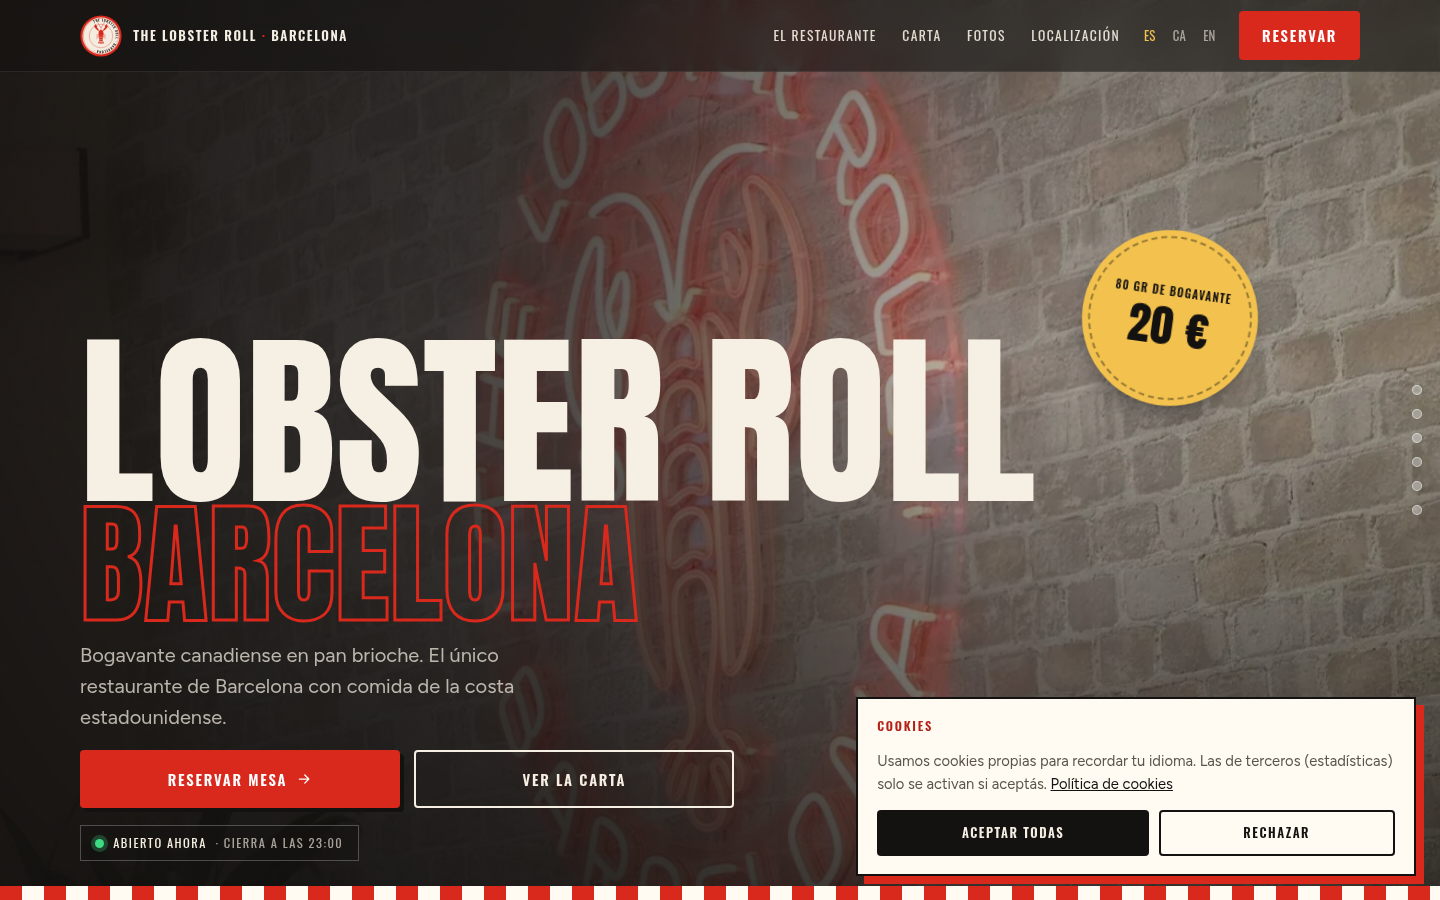
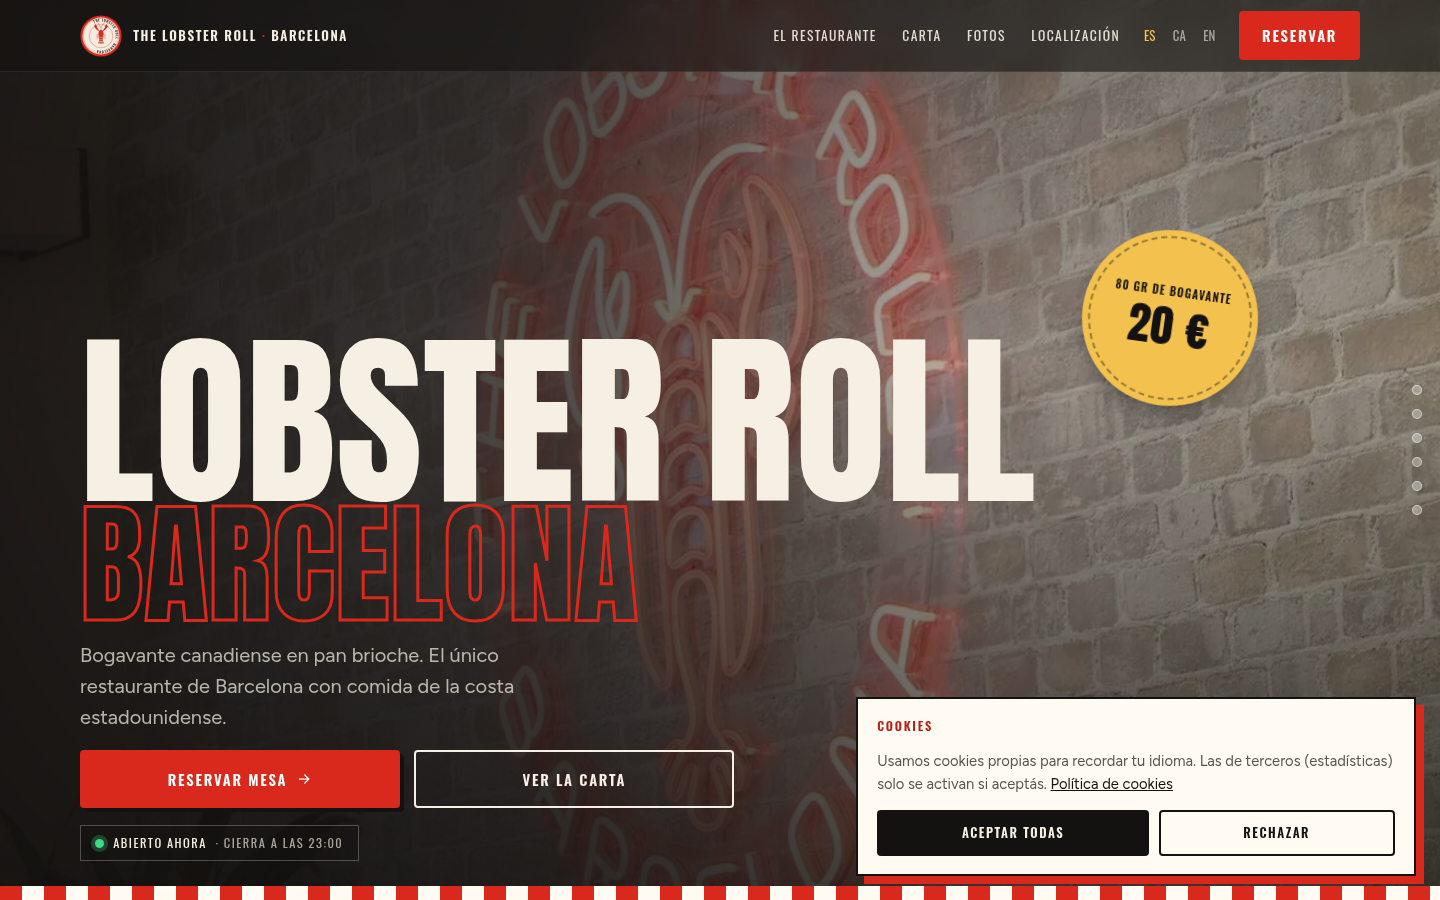
Lobster Roll: carta digital aparte (carta.html) y arreglo del titular del hero
- carta.html + css/carta.css + js/carta.js: página independiente para QR
  en mesa, con ES/CA/EN, pestañas Rolls/Combos, estado abierto/cerrado,
  reserva y teléfono; lee los mismos JSON que la web
- El titular del hero apilaba las letras: las reglas de .hero__titulo
  ahora apuntan a .linea y .l3, no a cualquier span

Claude-Session: https://claude.ai/code/session_01DngJyVj753fRcsSEJxT4AY

diff --git a/lobster-roll-web/js/carta.js b/lobster-roll-web/js/carta.js
@@ -1,0 +1,92 @@
+/* Carta digital (carta.html): carga data/carta.json, data/restaurante.json y data/i18n/*.json.
+   Independiente de main.js para poder vender la carta sola. */
+(() => {
+  'use strict';
+  const IDIOMAS = ['es', 'ca', 'en'];
+  const $ = (s, c = document) => c.querySelector(s);
+  const $$ = (s, c = document) => Array.from(c.querySelectorAll(s));
+  const estado = { lang: 'es', t: null, carta: null, rest: null };
+  const get = (o, r) => r.split('.').reduce((a, k) => (a == null ? undefined : a[k]), o);
+  const fmt = (s, v) => s.replace(/\{(\w+)\}/g, (_, k) => v[k] ?? '');
+  const txt = (o) => (typeof o === 'string' ? o : (o?.[estado.lang] ?? o?.es ?? ''));
+  const precio = (n) => new Intl.NumberFormat(get(estado.t, 'precio.locale') || 'es-ES', { style: 'currency', currency: estado.carta?.moneda || 'EUR', minimumFractionDigits: Number.isInteger(n) ? 0 : 2, maximumFractionDigits: 2 }).format(n);
+  const cargar = async (r) => { const x = await fetch(r, { cache: 'no-cache' }); if (!x.ok) throw new Error(r); return x.json(); };
+
+  function detectarIdioma() {
+    const q = new URLSearchParams(location.search).get('lang'); if (IDIOMAS.includes(q)) return q;
+    try { const g = localStorage.getItem('lr-lang'); if (IDIOMAS.includes(g)) return g; } catch (e) { /* sin storage */ }
+    return 'es';
+  }
+  function aplicarI18n() {
+    document.documentElement.lang = estado.lang;
+    $$('[data-i18n]').forEach((el) => { const v = get(estado.t, el.dataset.i18n); if (typeof v === 'string') el.textContent = v; });
+    $$('[data-i18n-attr]').forEach((el) => el.dataset.i18nAttr.split(';').forEach((p) => { const [a, k] = p.split(':').map((s) => s.trim()); const v = get(estado.t, k); if (typeof v === 'string') el.setAttribute(a, v); }));
+    $$('.idiomas button').forEach((b) => b.setAttribute('aria-pressed', String(b.dataset.lang === estado.lang)));
+  }
+  function aplicarDatos() {
+    const r = estado.rest;
+    $$('[data-dato]').forEach((el) => { const v = get(r, el.dataset.dato); if (v != null) el.textContent = v; });
+    $$('[data-reservas]').forEach((a) => { a.href = r.reservas; });
+    $$('[data-tel]').forEach((a) => { a.href = `tel:${r.telefono_tel}`; });
+  }
+  function pintarCarta() {
+    const destacado = get(estado.t, 'carta.especialidad') || '';
+    estado.carta.categorias.forEach((cat) => {
+      const ul = $(`.items[data-categoria="${cat.id}"]`); if (!ul) return;
+      const rolls = estado.carta.categorias.find((x) => x.id === 'rolls')?.items || [];
+      ul.innerHTML = cat.items.map((it) => {
+        const desc = txt(it.descripcion) || (it.roll ? (rolls.find((r) => r.id === it.roll)?.nombre || '') : '');
+        return `<li class="item${it.destacado ? ' item--destacado' : ''}">${it.destacado ? `<span class="item__tag">${destacado}</span>` : ''}<span class="item__nombre">${it.nombre}</span><span class="item__precio num">${precio(it.precio)}</span>${desc ? `<span class="item__desc">${desc}</span>` : ''}</li>`;
+      }).join('');
+    });
+  }
+  function ahoraEn(zona) {
+    const p = new Intl.DateTimeFormat('en-GB', { timeZone: zona, weekday: 'short', hour: '2-digit', minute: '2-digit', hour12: false }).formatToParts(new Date());
+    const o = Object.fromEntries(p.filter((x) => x.type !== 'literal').map((x) => [x.type, x.value]));
+    return { dia: { Sun: 0, Mon: 1, Tue: 2, Wed: 3, Thu: 4, Fri: 5, Sat: 6 }[o.weekday], min: (+o.hour % 24) * 60 + (+o.minute) };
+  }
+  const aMin = (h) => { const [a, b] = h.split(':').map(Number); return a * 60 + b; };
+  function pintarEstado() {
+    const el = $('#estado'); const h = estado.rest.horario; const t = estado.t.estado; const { dia, min } = ahoraEn(h.zona);
+    const hoy = h.dias[String(dia)] || []; let abierto = false; let detalle = '';
+    for (const [a, b] of hoy) if (min >= aMin(a) && min < aMin(b)) { abierto = true; detalle = fmt(t.cierra, { hora: b }); break; }
+    if (!abierto) {
+      const prox = hoy.find(([a]) => min < aMin(a));
+      if (prox) detalle = fmt(t.abre_hoy, { hora: prox[0] });
+      else for (let i = 1; i <= 7; i++) { const d = (dia + i) % 7; const tr = h.dias[String(d)] || []; if (tr.length) { detalle = fmt(t.abre_dia, { dia: get(estado.t, 'localizacion.dias')[d], hora: tr[0][0] }); break; } }
+    }
+    el.classList.toggle('is-abierto', abierto); el.classList.toggle('is-cerrado', !abierto);
+    $('.estado__txt', el).textContent = abierto ? t.abierto : t.cerrado; $('.estado__detalle', el).textContent = detalle ? ` · ${detalle}` : '';
+    // resumen de horario en el pie: agrupa días iguales
+    const dc = get(estado.t, 'localizacion.dias_corto'); const cerrado = get(estado.t, 'localizacion.cerrado');
+    const orden = [1, 2, 3, 4, 5, 6, 0]; const partes = []; let ini = 0;
+    const clave = (d) => JSON.stringify(h.dias[String(d)] || []);
+    for (let i = 1; i <= orden.length; i++) {
+      if (i === orden.length || clave(orden[i]) !== clave(orden[ini])) {
+        const tr = h.dias[String(orden[ini])] || []; const dias = ini === i - 1 ? dc[orden[ini]] : `${dc[orden[ini]]}–${dc[orden[i - 1]]}`;
+        partes.push(`${dias} ${tr.length ? tr.map(([a, b]) => `${a}–${b}`).join(', ') : cerrado.toLowerCase()}`); ini = i;
+      }
+    }
+    $('#cd-horario').textContent = partes.join(' · ');
+  }
+  function initTabs() {
+    const tabs = $$('[role="tab"]');
+    const activar = (tab, foco = true) => { tabs.forEach((t) => { const on = t === tab; t.setAttribute('aria-selected', String(on)); t.tabIndex = on ? 0 : -1; const p = document.getElementById(t.getAttribute('aria-controls')); if (p) p.hidden = !on; }); if (foco) tab.focus(); };
+    tabs.forEach((tab, i) => { tab.addEventListener('click', () => activar(tab, false)); tab.addEventListener('keydown', (e) => { const m = { ArrowRight: 1, ArrowLeft: -1, Home: -i, End: tabs.length - 1 - i }; if (e.key in m) { e.preventDefault(); activar(tabs[(i + m[e.key] + tabs.length) % tabs.length]); } }); });
+    if (location.hash === '#combos') activar(tabs[1], false);
+  }
+  async function cambiarIdioma(lang) {
+    if (!IDIOMAS.includes(lang)) return; estado.lang = lang; estado.t = await cargar(`data/i18n/${lang}.json`);
+    try { localStorage.setItem('lr-lang', lang); } catch (e) { /* sin storage */ }
+    const u = new URL(location.href); u.searchParams.set('lang', lang); history.replaceState(null, '', u);
+    aplicarI18n(); pintarCarta(); pintarEstado();
+  }
+  async function init() {
+    estado.lang = detectarIdioma();
+    const [t, carta, rest] = await Promise.all([cargar(`data/i18n/${estado.lang}.json`), cargar('data/carta.json'), cargar('data/restaurante.json')]);
+    Object.assign(estado, { t, carta, rest });
+    aplicarDatos(); aplicarI18n(); pintarCarta(); pintarEstado(); setInterval(pintarEstado, 60000); initTabs();
+    $$('.idiomas button').forEach((b) => b.addEventListener('click', () => cambiarIdioma(b.dataset.lang)));
+  }
+  if (document.readyState === 'loading') document.addEventListener('DOMContentLoaded', init); else init();
+})();

diff --git a/lobster-roll-web/carta.html b/lobster-roll-web/carta.html
@@ -1,0 +1,95 @@
+<!doctype html>
+<html lang="es">
+<head>
+  <meta charset="utf-8">
+  <meta name="viewport" content="width=device-width, initial-scale=1">
+  <title data-i18n="carta_digital.titulo">Carta · The Lobster Roll Barcelona</title>
+  <meta name="description" data-i18n-attr="content:carta_digital.descripcion" content="Carta de The Lobster Roll Barcelona: lobster rolls de bogavante canadiense, crab rolls, combos y más. Carrer de Muntaner 22.">
+  <meta name="theme-color" content="#d9281c">
+  <meta name="robots" content="index, follow">
+  <link rel="icon" href="assets/img/logo.svg" type="image/svg+xml">
+  <link rel="preload" href="assets/fonts/anton-normal-400-latin.woff2" as="font" type="font/woff2" crossorigin>
+  <link rel="preload" href="assets/fonts/gloock-normal-400-latin.woff2" as="font" type="font/woff2" crossorigin>
+  <link rel="stylesheet" href="css/fonts.css">
+  <link rel="stylesheet" href="css/styles.css">
+  <link rel="stylesheet" href="css/carta.css">
+</head>
+<body class="cd">
+<a class="saltar" href="#cd-carta" data-i18n="nav.saltar">Saltar al contenido</a>
+
+<svg width="0" height="0" style="position:absolute" aria-hidden="true">
+  <defs>
+    <symbol id="i-logo" viewBox="0 0 200 200">
+      <path id="arco" d="M100,100 m-70,0 a70,70 0 1,1 140,0 a70,70 0 1,1 -140,0" fill="none"/>
+      <circle cx="100" cy="100" r="98" fill="#d9281c"/><circle cx="100" cy="100" r="88" fill="#f3ecdf"/>
+      <circle cx="100" cy="100" r="84" fill="none" stroke="#d9281c" stroke-width="1.5"/><circle cx="100" cy="100" r="56" fill="none" stroke="#d9281c" stroke-width="1.5"/>
+      <text font-family="Oswald, 'Arial Narrow', Arial, sans-serif" font-weight="600" font-size="15.5" letter-spacing="2.6" fill="#141210"><textPath href="#arco" startOffset="50%" text-anchor="middle">THE LOBSTER ROLL · BARCELONA ·</textPath></text>
+      <g fill="#d9281c" stroke="#d9281c" stroke-linecap="round" stroke-linejoin="round">
+        <path d="M100,62 C96,54 90,44 84,36" fill="none" stroke-width="2"/><path d="M100,62 C104,54 110,44 116,36" fill="none" stroke-width="2"/>
+        <ellipse cx="100" cy="88" rx="11" ry="18"/>
+        <path d="M89,100 h22 l-1,8 h-20z M90,108 h20 l-1,8 h-18z M91,116 h18 l-1,8 h-16z" stroke="#f3ecdf" stroke-width="1"/>
+        <path d="M92,124 l-6,10 h8z M100,124 l-4,12 h8z M108,124 l6,10 h-8z"/>
+        <path d="M90,76 C82,70 74,66 70,58 C66,52 70,46 76,48 C80,50 82,56 80,60 C84,62 88,68 90,76z"/>
+        <path d="M110,76 C118,70 126,66 130,58 C134,52 130,46 124,48 C120,50 118,56 120,60 C116,62 112,68 110,76z"/>
+        <path d="M76,48 l-6,-6 M124,48 l6,-6" fill="none" stroke-width="2.5"/>
+        <path d="M89,92 l-10,4 M89,98 l-10,6 M89,104 l-9,8 M111,92 l10,4 M111,98 l10,6 M111,104 l9,8" fill="none" stroke-width="2"/>
+        <circle cx="95" cy="72" r="1.6" fill="#f3ecdf" stroke="none"/><circle cx="105" cy="72" r="1.6" fill="#f3ecdf" stroke="none"/>
+      </g>
+    </symbol>
+    <symbol id="i-flecha" viewBox="0 0 24 24"><path d="M5 12h14M13 6l6 6-6 6" fill="none" stroke="currentColor" stroke-width="2" stroke-linecap="round" stroke-linejoin="round"/></symbol>
+    <symbol id="i-tel" viewBox="0 0 24 24"><path d="M5 4h4l2 5-2.5 1.5a11 11 0 0 0 5 5L15 13l5 2v4a2 2 0 0 1-2 2A16 16 0 0 1 3 6a2 2 0 0 1 2-2z" fill="none" stroke="currentColor" stroke-width="2" stroke-linejoin="round"/></symbol>
+  </defs>
+</svg>
+
+<header class="cd__cab">
+  <div class="cd__cab-int">
+    <svg class="cd__logo" aria-hidden="true"><use href="#i-logo"/></svg>
+    <div class="cd__marca">
+      <span class="cd__nombre" data-dato="nombre">The Lobster Roll</span>
+      <span class="cd__ciudad"><span data-dato="direccion.calle">Carrer de Muntaner, 22</span> · <span data-dato="direccion.ciudad">Barcelona</span></span>
+    </div>
+    <div class="idiomas cd__idiomas" role="group" data-i18n-attr="aria-label:nav.idioma" aria-label="Idioma">
+      <button type="button" data-lang="es" aria-pressed="true" lang="es">ES</button>
+      <button type="button" data-lang="ca" aria-pressed="false" lang="ca">CA</button>
+      <button type="button" data-lang="en" aria-pressed="false" lang="en">EN</button>
+    </div>
+  </div>
+  <div class="rayas rayas--fina" aria-hidden="true"></div>
+</header>
+
+<main class="cd__main" id="cd-carta">
+  <div class="cd__titulo-bloque">
+    <p class="estado" id="estado" aria-live="polite"><span class="estado__punto" aria-hidden="true"></span><span class="estado__txt">…</span><span class="estado__detalle"></span></p>
+    <h1 class="cd__titulo" data-i18n="carta.titulo">Carta</h1>
+    <p class="cd__sub" data-i18n="carta_digital.sub">Bogavante canadiense en pan brioche. Todo recién hecho.</p>
+  </div>
+
+  <div class="tabs cd__tabs" role="tablist" aria-label="Carta">
+    <button class="tab" role="tab" id="tab-rolls" aria-selected="true" aria-controls="panel-rolls" data-i18n="carta.tab_rolls">Rolls</button>
+    <button class="tab" role="tab" id="tab-combos" aria-selected="false" aria-controls="panel-combos" tabindex="-1" data-i18n="carta.tab_combos">Combos</button>
+  </div>
+  <div class="panel" role="tabpanel" id="panel-rolls" aria-labelledby="tab-rolls" tabindex="0">
+    <ul class="items cd__items" data-categoria="rolls"></ul>
+  </div>
+  <div class="panel" role="tabpanel" id="panel-combos" aria-labelledby="tab-combos" tabindex="0" hidden>
+    <ol class="cd__pasos" aria-label="Qué lleva cada combo">
+      <li><span class="cd__paso-num">1</span><b data-i18n="combos.paso_1_titulo">1 roll</b><span data-i18n="combos.paso_1_txt">El que más te guste.</span></li>
+      <li><span class="cd__paso-num">2</span><b data-i18n="combos.paso_2_titulo">1 bebida</b><span data-i18n="combos.paso_2_txt">Refresco, cerveza o vino.</span></li>
+      <li><span class="cd__paso-num">3</span><b data-i18n="combos.paso_3_titulo">1 mochi</b><span data-i18n="combos.paso_3_txt">Para cerrar.</span></li>
+    </ol>
+    <ul class="items cd__items" data-categoria="combos"></ul>
+  </div>
+
+  <p class="cd__nota" data-i18n="carta_digital.nota">Precios en euros, IVA incluido. Preguntá por alérgenos.</p>
+</main>
+
+<footer class="cd__pie">
+  <a class="btn btn--rojo" data-reservas href="https://reservation.dish.co/widget/hydra-4f96c8f5-27ab-4e7e-8c4c-c98300c5b443" target="_blank" rel="noopener"><span data-i18n="hero.cta_reservar">Reservar mesa</span><svg aria-hidden="true"><use href="#i-flecha"/></svg></a>
+  <a class="cd__tel" data-tel href="tel:+34935104516"><svg width="18" height="18" aria-hidden="true"><use href="#i-tel"/></svg><span data-dato="telefono">+34 935 104 516</span></a>
+  <p class="cd__horario"><span data-i18n="localizacion.horario">Horario</span>: <span id="cd-horario"></span></p>
+  <p class="cd__web"><a href="index.html" data-i18n="carta_digital.volver">Ver la web completa</a> · <span data-i18n="footer.diseno">Diseño:</span> <a href="https://apardianstudio.com" target="_blank" rel="noopener">Apardian Studio</a></p>
+</footer>
+
+<script src="js/carta.js" defer></script>
+</body>
+</html>

diff --git a/lobster-roll-web/css/carta.css b/lobster-roll-web/css/carta.css
@@ -1,0 +1,39 @@
+/* Carta digital (carta.html): página aparte para QR en mesa. Reusa los tokens de styles.css. */
+body.cd { background: var(--crema); padding-bottom: 2rem; }
+.cd__cab { background: var(--negro); color: var(--crema); position: sticky; top: 0; z-index: 20; }
+.cd__cab-int { width: min(100% - 2 * var(--gutter), 720px); margin-inline: auto; display: flex; align-items: center; gap: .8rem; padding: .7rem 0; }
+.cd__logo { width: 46px; height: 46px; flex: none; }
+.cd__marca { display: grid; line-height: 1.15; min-width: 0; }
+.cd__nombre { font-family: var(--f-label); font-weight: 600; text-transform: uppercase; letter-spacing: .12em; font-size: .9rem; }
+.cd__ciudad { font-size: .78rem; color: var(--crema-sobre-negro); white-space: nowrap; overflow: hidden; text-overflow: ellipsis; }
+.cd__idiomas { display: flex; margin-left: auto; }
+.cd__idiomas button { padding: .45rem .5rem; font-size: .85rem; min-height: 40px; }
+.cd__main { width: min(100% - 2 * var(--gutter), 720px); margin-inline: auto; padding-top: 1.6rem; }
+.cd__titulo-bloque { display: grid; gap: .6rem; margin-bottom: 1rem; }
+.cd__titulo-bloque .estado { border-color: rgba(20,18,16,.3); background: var(--blanco); color: var(--negro); }
+.cd__titulo { font-family: var(--f-display); text-transform: uppercase; font-size: clamp(4.5rem, 26vw, 8rem); line-height: .85; color: var(--rojo); margin-top: .2rem; }
+.cd__sub { color: var(--gris); font-size: 1.05rem; max-width: 30rem; }
+.cd__tabs { position: sticky; top: calc(46px + 1.4rem + 8px); background: var(--crema); z-index: 10; margin: 1.2rem 0 1.4rem; }
+.cd__items .item { grid-template-columns: 1fr auto; }
+.cd__items .item__nombre { font-size: clamp(1.3rem, 5.5vw, 1.7rem); }
+.cd__items .item__precio { font-size: 1.45rem; }
+.cd__items .item--destacado { margin-inline: 0; padding: 1.3rem 1.1rem; margin-bottom: .6rem; }
+.cd__pasos { display: grid; gap: .5rem; margin-bottom: 1.4rem; background: var(--blanco); border: 2px solid var(--negro); padding: 1rem; box-shadow: 6px 6px 0 var(--rojo); }
+.cd__pasos li { display: grid; grid-template-columns: auto auto 1fr; align-items: baseline; gap: .6rem; }
+.cd__pasos b { font-family: var(--f-display); text-transform: uppercase; font-size: 1.3rem; }
+.cd__pasos span:last-child { color: var(--gris); font-size: .92rem; }
+.cd__paso-num { width: 26px; height: 26px; border-radius: 50%; background: var(--rojo); color: #fff; display: inline-grid; place-items: center; font-family: var(--f-label); font-weight: 600; font-size: .85rem; align-self: center; }
+.cd__nota { margin-top: 1.4rem; color: var(--gris); font-size: .85rem; }
+.cd__pie { width: min(100% - 2 * var(--gutter), 720px); margin: 2.2rem auto 0; display: grid; gap: .9rem; justify-items: start; border-top: 3px solid var(--negro); padding-top: 1.6rem; }
+.cd__pie .btn { width: 100%; }
+.cd__tel { font-family: var(--f-display); font-size: 1.5rem; letter-spacing: .03em; text-decoration: none; display: inline-flex; gap: .6rem; align-items: center; color: var(--negro); }
+.cd__horario, .cd__web { font-size: .9rem; color: var(--gris); }
+.cd__web a { color: var(--negro); }
+@media (min-width: 600px) { .cd__pie { grid-template-columns: auto 1fr; align-items: center; } .cd__pie .btn { width: auto; } .cd__horario, .cd__web { grid-column: 1 / -1; } }
+@media print {
+  .cd__cab, .cd__tabs, .cd__pie .btn, .estado, .saltar { display: none !important; }
+  .panel[hidden] { display: block !important; }
+  body.cd { background: #fff; }
+  .cd__items .item--destacado { background: none; color: #000; box-shadow: none; border: 2px solid #000; }
+  .cd__items .item--destacado .item__nombre, .cd__items .item--destacado .item__precio, .cd__items .item--destacado .item__desc { color: #000; }
+}

diff --git a/lobster-roll-web/css/styles.css b/lobster-roll-web/css/styles.css
@@ -144,7 +144,7 @@ body.menu-abierto { overflow: hidden; }
 .hero__video video { width: 100%; height: 100%; object-fit: cover; opacity: .85; }
 .hero .cont { position: relative; z-index: 2; padding-top: calc(var(--barra-h) + 42vh); padding-bottom: 2.2rem; display: grid; gap: 1.1rem; }
 .hero__titulo { display: grid; position: relative; }
-.hero__titulo span { display: block; font-size: clamp(4.2rem, 19vw, 13rem); line-height: .86; }
+.hero__titulo .linea, .hero__titulo .l3 { display: block; font-size: clamp(4.2rem, 19vw, 13rem); line-height: .86; }
 .hero__titulo .linea { display: flex; flex-wrap: wrap; gap: 0 .22em; }
 .hero__titulo .l3 { color: transparent; -webkit-text-stroke: 2px var(--rojo); font-size: clamp(3rem, 13.5vw, 9.4rem); margin-top: .04em; }
 @supports not (-webkit-text-stroke: 1px #000) { .hero__titulo .l3 { color: var(--rojo); } }
@@ -168,7 +168,7 @@ body.menu-abierto { overflow: hidden; }
   .sticker { right: 4%; left: auto; top: -30%; }
 }
 @media (min-width: 1024px) {
-  .hero__titulo span { font-size: clamp(7rem, 13vw, 12.5rem); }
+  .hero__titulo .linea { font-size: clamp(7rem, 13vw, 12.5rem); }
   .hero__titulo .l3 { font-size: clamp(5rem, 9.2vw, 9rem); -webkit-text-stroke-width: 3px; }
   .sticker { right: 8%; top: -40%; }
 }
@@ -379,7 +379,7 @@ html.cursor-langosta, html.cursor-langosta a, html.cursor-langosta button, html.
 @keyframes antena { from { transform: rotate(-6deg); } to { transform: rotate(8deg); } }
 
 /* ---------- Hover en títulos y piezas ---------- */
-.letra { display: inline-block; white-space: pre; }
+.letra { display: inline-block; white-space: pre; font: inherit; color: inherit; }
 [data-letras]:hover .letra, [data-letras].is-ola .letra { animation: ola .6s var(--ease) both; animation-delay: calc(var(--i, 0) * 32ms); }
 @keyframes ola { 0% { transform: none; } 35% { transform: translateY(-.14em) rotate(-3deg); } 70% { transform: translateY(.05em); } 100% { transform: none; } }
 .sec--crema .h-display, .sec--blanco .h-display, .partido__der .h-display, .loc__dir { transition: color .3s; }
@@ -426,7 +426,7 @@ html.cursor-langosta, html.cursor-langosta a, html.cursor-langosta button, html.
 /* ---------- Animaciones ---------- */
 .reveal { opacity: 0; transform: translateY(24px); transition: opacity .7s var(--ease), transform .7s var(--ease); }
 .reveal.is-in { opacity: 1; transform: none; }
-.hero__titulo span, .hero__bajada, .hero__ctas, .estado, .sticker { animation: entra .9s var(--ease) both; }
+.hero__titulo .linea, .hero__titulo .l3, .hero__bajada, .hero__ctas, .estado, .sticker { animation: entra .9s var(--ease) both; }
 .hero__titulo .l1 { animation-delay: .05s; } .hero__titulo .l2 { animation-delay: .15s; } .hero__titulo .l3 { animation-delay: .25s; }
 .hero__bajada { animation-delay: .45s; } .hero__ctas { animation-delay: .55s; } .estado { animation-delay: .65s; } .sticker { animation-name: entraSticker; animation-delay: .8s; }
 .hero__foto img { animation: zoomLento 14s ease-out both; }

diff --git a/lobster-roll-web/README.md b/lobster-roll-web/README.md
@@ -28,6 +28,14 @@ lobster-roll-web/
 └── capturas/               ← capturas del resultado
 ```
 
+## Carta digital aparte (`carta.html`)
+
+Página independiente para poner en un QR en las mesas o vender sola: lee los mismos
+`data/carta.json`, `data/restaurante.json` y `data/i18n/*.json`, con selector ES / CA / EN,
+pestañas Rolls / Combos, estado abierto/cerrado, botón de reserva y teléfono. Se abre con
+`carta.html` (o `carta.html?lang=en`). Tiene estilo de impresión por si hace falta en papel.
+Para otro restaurante: cambiar los tres JSON y el logo; el HTML no se toca.
+
 ## Ver el sitio en local
 
 Los datos se cargan con `fetch`, así que hace falta un servidor (con `file://` la página
